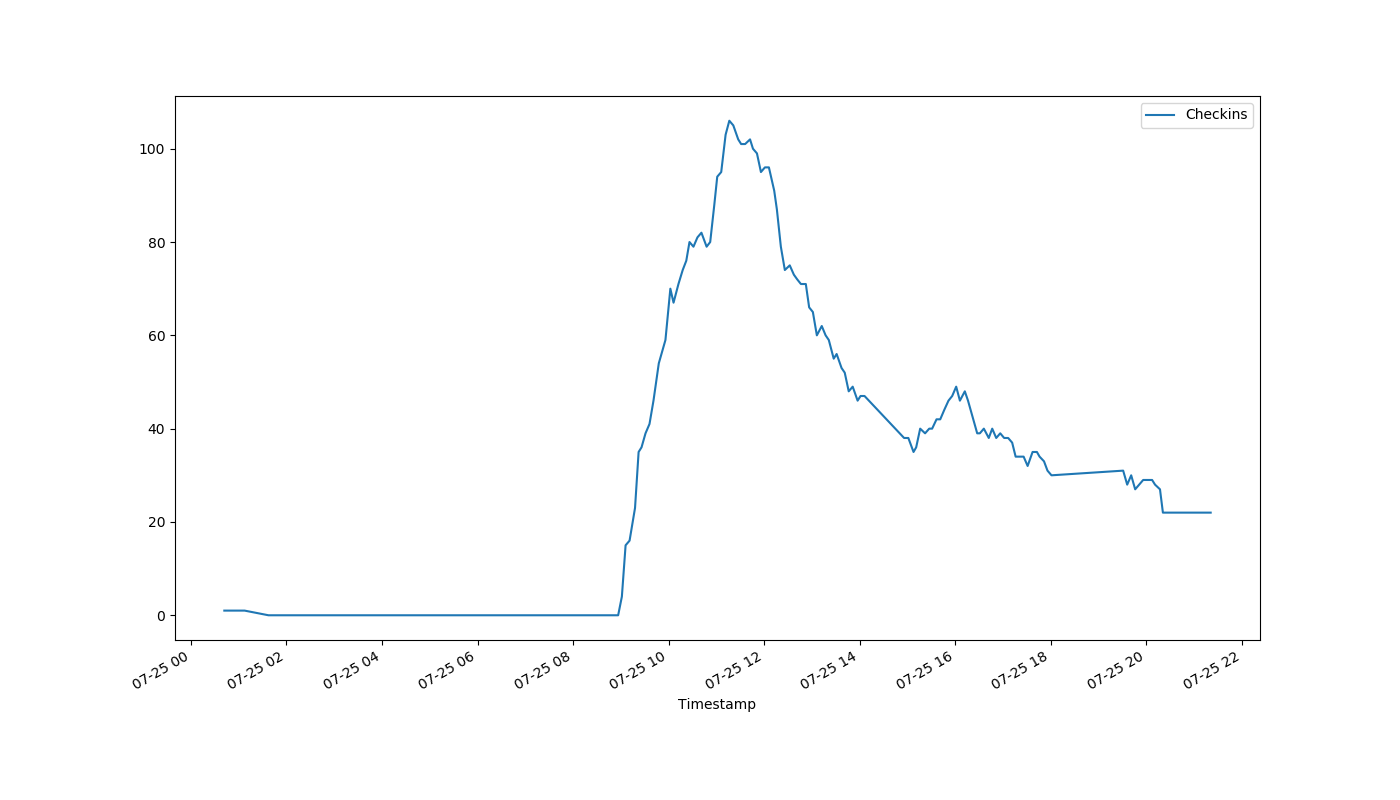
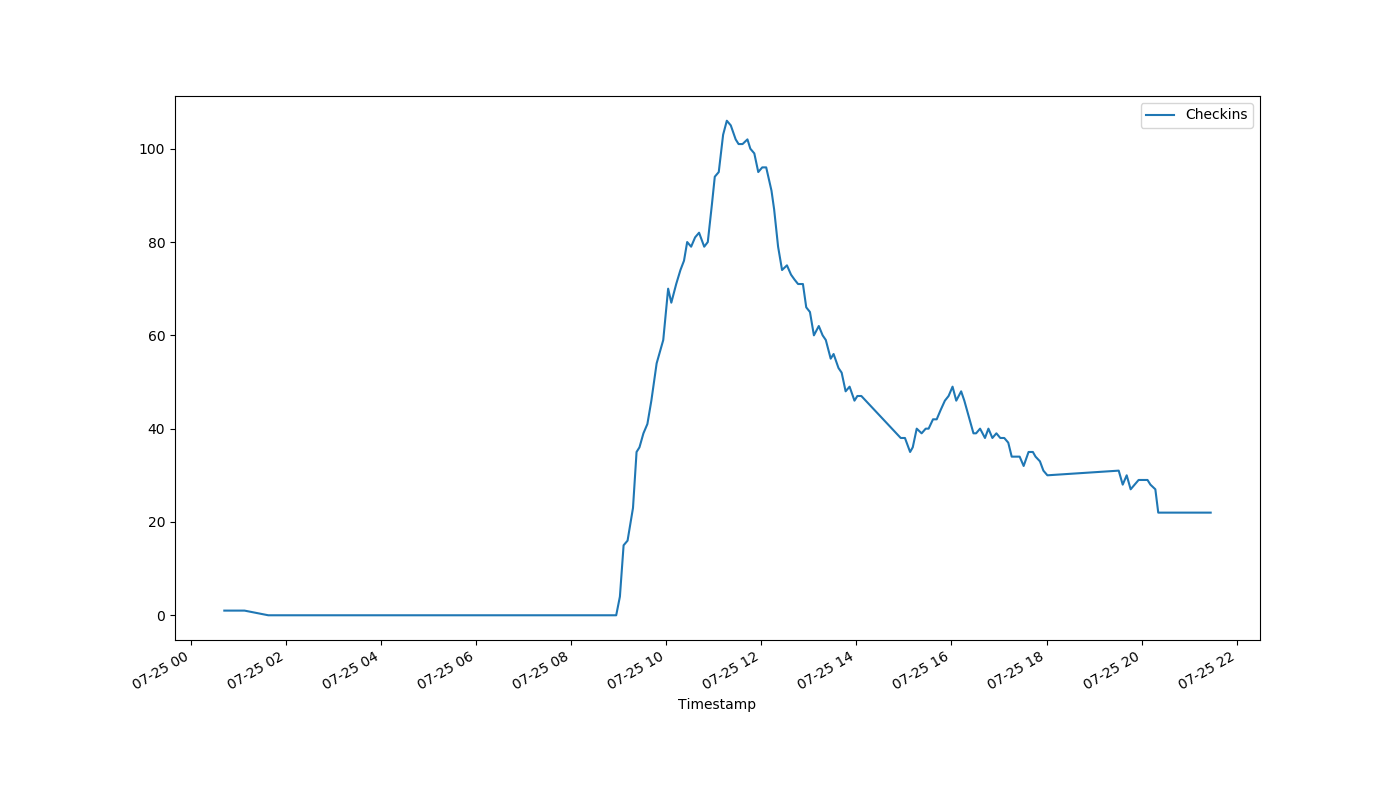
auto-Jul-25-21:28:59

diff --git a/index.html b/index.html
@@ -1,1 +1,1 @@
-<!DOCTYPE html><html><head><meta http-equiv="refresh" content="30"><link rel='stylesheet' href='holmcurrent.css'></head><body><p id='count'>22</p><div id='graph-wrap'><img id='graph' src='holmgraph-Jul-25.png'></div><p id='updated'>Last updated 21:21:10 / 21:21:03</p></body></html>
+<!DOCTYPE html><html><head><meta http-equiv="refresh" content="30"><link rel='stylesheet' href='holmcurrent.css'></head><body><p id='count'>22</p><div id='graph-wrap'><img id='graph' src='holmgraph-Jul-25.png'></div><p id='updated'>Last updated 21:28:10 / 21:27:14</p></body></html>
